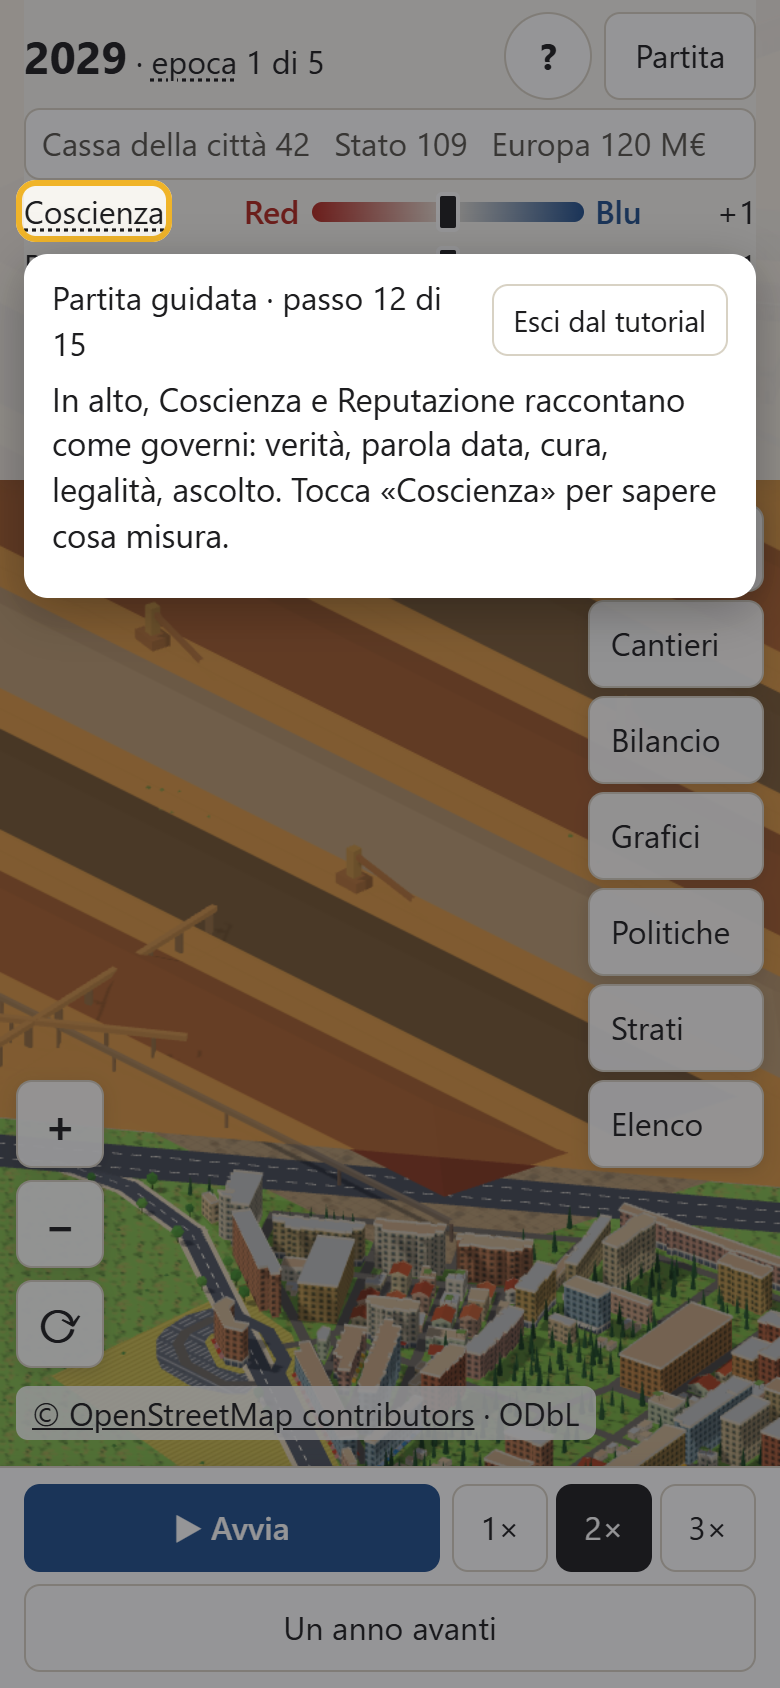
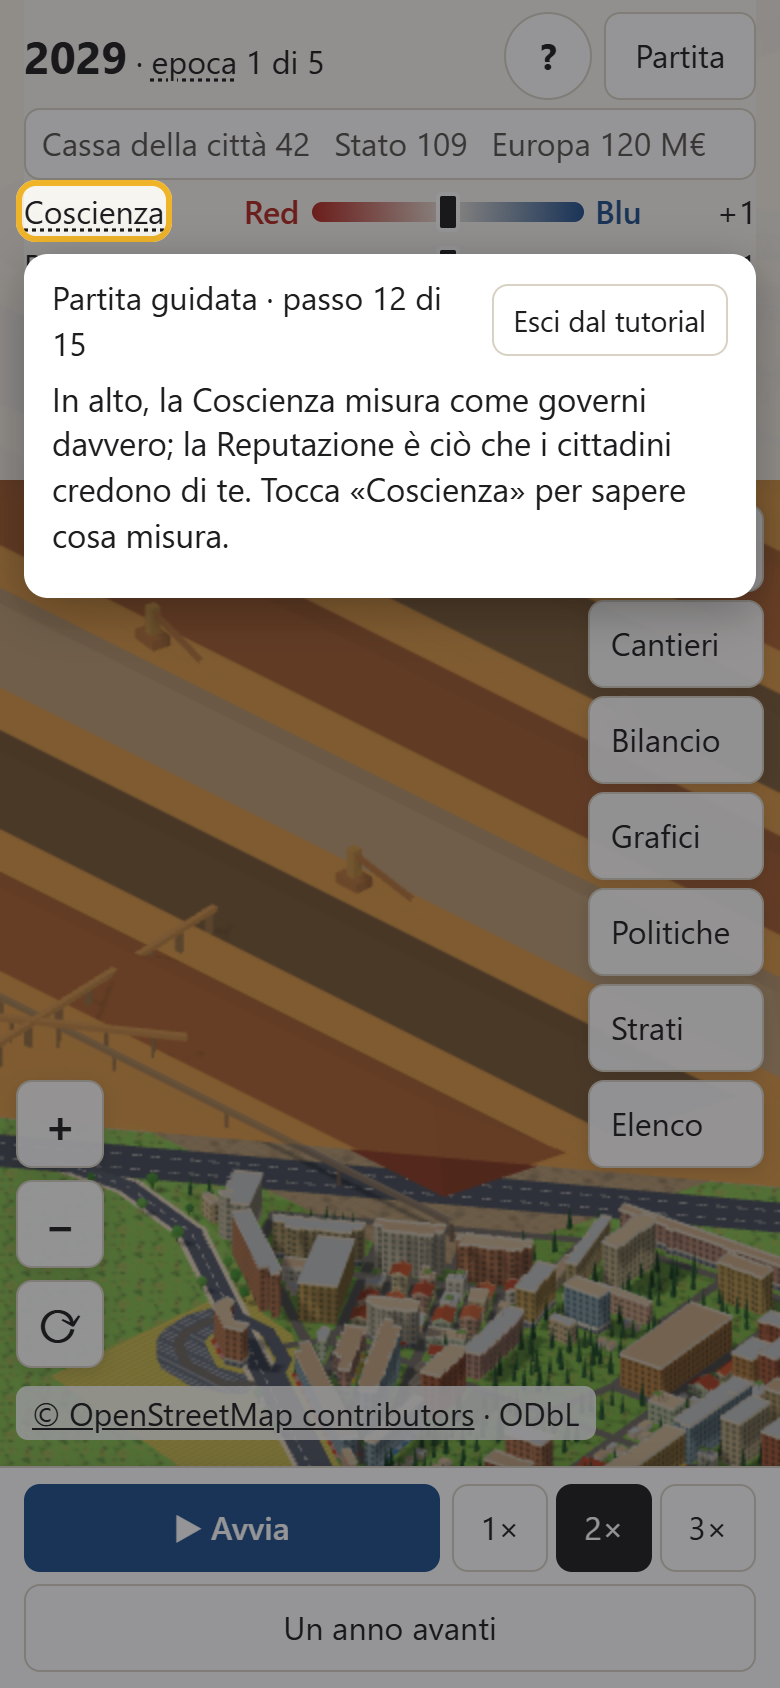
T16: passo 12 corretto da Michele, avanza solo chiudendo la spiegazione con «Ok»
Testo nuovo del passo 12; attesa «spiegazione-letta» al posto di «vede»; con la
spiegazione aperta l'evidenza passa su «Ok». Prova unitaria e prova nel browser
(la spiegazione non resta aperta ai passi dopo). Schermate 12, 12b, 13 e 14 rifatte.

Changed region(s): [[0.0615, 0.2156, 0.9231, 0.3081]]

diff --git a/apps/game/src/tutorial.tsx b/apps/game/src/tutorial.tsx
@@ -14,6 +14,7 @@ import type { GameState } from '@taranto2127/sim';
 import { useCallback, useEffect, useLayoutEffect, useRef, useState } from 'react';
 import { createPortal } from 'react-dom';
 import { content } from './engine.js';
+import { useTipAperto } from './guide.js';
 
 export const tutorial = content.tutorial;
 type Passo = (typeof tutorial.passi)[number];
@@ -69,6 +70,10 @@ export interface Contesto {
   layer: string | null;
   selected: { kind: 'district' | 'lot'; id: string } | null;
   paperOpen: boolean;
+  /** Il termine di cui è aperta la spiegazione, o null (lo aggiunge il tutorial stesso). */
+  tip?: string | null;
+  /** I termini di cui, durante questo passo, si è aperta la spiegazione. */
+  tipVisti?: ReadonlySet<string>;
 }
 
 /** Il comando con questo data-testid, se c'è nella pagina. */
@@ -97,8 +102,9 @@ export function fatto(passo: Passo, c: Contesto): boolean {
       return c.state.openDilemmaId !== null || c.state.history.some((h) => h.action.kind === 'answer-dilemma');
     case 'dilemma-risposto':
       return c.state.history.some((h) => h.action.kind === 'answer-dilemma');
-    case 'vede':
-      return trova(a.testid) !== null;
+    case 'spiegazione-letta':
+      // Aperta e poi chiusa con «Ok»: così ai passi dopo la spiegazione non resta sullo schermo.
+      return (c.tipVisti?.has(a.termine) ?? false) && (c.tip ?? null) === null;
     case 'fine':
       return false;
   }
@@ -175,8 +181,13 @@ export function Tutorial({ indice, contesto, onAvanti, onEsci, onFine }: { indic
   const [pos, setPos] = useState<{ top: number; maxHeight: number } | null>(null);
   /** Posto per il fumetto dentro una finestra (il dilemma): lì il fumetto scorre con il contenuto e non copre nulla. */
   const [spazio, setSpazio] = useState<HTMLElement | null>(null);
-  const contestoRef = useRef(contesto);
-  contestoRef.current = contesto;
+  const tip = useTipAperto();
+  // Le spiegazioni aperte durante questo passo (si ricomincia a ogni passo).
+  const visti = useRef<{ indice: number; termini: Set<string> }>({ indice, termini: new Set() });
+  if (visti.current.indice !== indice) visti.current = { indice, termini: new Set() };
+  if (tip !== null) visti.current.termini.add(tip);
+  const contestoRef = useRef<Contesto>(contesto);
+  contestoRef.current = { ...contesto, tip, tipVisti: visti.current.termini };
   const fuoco = useRef<HTMLElement | null>(null);
 
   // Il passo va avanti quando l'azione è fatta: si controlla a ogni cambio e, per ciò che sta solo nella pagina, ogni 300 ms.
@@ -184,7 +195,7 @@ export function Tutorial({ indice, contesto, onAvanti, onEsci, onFine }: { indic
   const controlla = useCallback(() => {
     if (fatto(passo, contestoRef.current)) onAvanti(indice);
   }, [passo, indice, onAvanti]);
-  useEffect(controlla, [contesto, controlla]);
+  useEffect(controlla, [contesto, tip, controlla]);
 
   // Dove sta il comando evidenziato, e dove mettere il fumetto perché non lo copra.
   const misura = useCallback(() => {
@@ -245,6 +256,11 @@ export function Tutorial({ indice, contesto, onAvanti, onEsci, onFine }: { indic
         </p>
       )}
       <p className="tutorial-testo">{passo.testo}</p>
+      {passo.attesa.tipo === 'spiegazione-letta' && rect?.testid === 'spiegazione-chiudi' && (
+        <p className="tutorial-testo" data-testid="tutorial-poi">
+          {passo.attesa.poi}
+        </p>
+      )}
       {ultimo && (
         <div className="buttons">
           <button type="button" className="primary" onClick={onFine} data-testid="tutorial-fine">

diff --git a/apps/game/scripts/verifica.ts b/apps/game/scripts/verifica.ts
@@ -1440,10 +1440,22 @@ async function tutorialDaCopione(browser: Browser, width: number, mappa: '3d' | 
     }
     if (!visti.includes(p.id)) {
       visti.push(p.id);
+      // Dopo il passo «coscienza» la sua spiegazione è chiusa: non resta sopra i comandi dei passi dopo.
+      if (visti.includes('coscienza') && p.id !== 'coscienza' && (await visible(page, 'spiegazione'))) fail(`${dove}, passo «${p.id}»: la spiegazione della Coscienza è rimasta aperta`);
       await controllaPasso(page, `${dove}, passo «${p.id}»`, p.bersaglio);
       if (width === 390 && mappa === '3d') {
         await page.waitForTimeout(500);
-        await page.screenshot({ path: join(shotsDir, `t16-passo-${String(visti.length).padStart(2, '0')}-${p.id}-390.png`) });
+        await page.screenshot({ path: join(shotsDir, `t16-passo-${String(visti.filter((x) => x !== 'coscienza-ok').length).padStart(2, '0')}-${p.id}-390.png`) });
+      }
+    }
+    else if (p.id === 'coscienza' && p.bersaglio === 'spiegazione-chiudi' && !visti.includes('coscienza-ok')) {
+      // Spiegazione aperta: ora si evidenzia «Ok» e il fumetto dice di chiuderla.
+      visti.push('coscienza-ok');
+      await controllaPasso(page, `${dove}, passo «coscienza» con la spiegazione aperta`, p.bersaglio);
+      if (!(await visible(page, 'tutorial-poi'))) fail(`${dove}, passo «coscienza»: con la spiegazione aperta il fumetto non dice di toccare «Ok»`);
+      if (width === 390 && mappa === '3d') {
+        await page.waitForTimeout(500);
+        await page.screenshot({ path: join(shotsDir, 't16-passo-12b-coscienza-ok-390.png') });
       }
     }
     if (process.env['T16LOG'] === '1') console.log(`LOG ${width} ${mappa} passo ${p.id} bersaglio ${p.bersaglio}`);
@@ -1464,8 +1476,10 @@ async function tutorialDaCopione(browser: Browser, width: number, mappa: '3d' | 
   // Ogni passo dei dati si vede; con la mappa schematica lo strato è sempre acceso, quindi «strato» si salta da solo.
   const attesi = loadContent().tutorial.passi.map((x) => x.id).filter((id) => !(mappa === 'schematica' && id === 'strato'));
   const mancanti = attesi.filter((id) => !visti.includes(id));
-  if (mancanti.length > 0 || visti.join() !== attesi.join()) fail(`${dove}: passi non visti o fuori ordine (mancano ${mancanti.join(', ') || 'nessuno'}; visti ${visti.join(', ')})`);
-  misura(`${dove}: tutorial completato, ${visti.length} passi (${visti.join(' → ')}), ${azioni} azioni, partita al ${anno}`);
+  if (!visti.includes('coscienza-ok')) fail(`${dove}: al passo «coscienza» la spiegazione aperta non porta l'evidenza su «Ok»`);
+  const ordine = visti.filter((id) => id !== 'coscienza-ok');
+  if (mancanti.length > 0 || ordine.join() !== attesi.join()) fail(`${dove}: passi non visti o fuori ordine (mancano ${mancanti.join(', ') || 'nessuno'}; visti ${visti.join(', ')})`);
+  misura(`${dove}: tutorial completato, ${ordine.length} passi (${ordine.join(' → ')}; a «coscienza» l'evidenza passa su «Ok»), ${azioni} azioni, partita al ${anno}`);
   await close();
 }
 

diff --git a/apps/game/src/tutorial.test.ts b/apps/game/src/tutorial.test.ts
@@ -101,7 +101,7 @@ describe('passi della partita guidata', () => {
     }
     for (const passo of tutorial.passi) {
       for (const id of passo.evidenzia) expect(ammessi.has(id), `${passo.id}: ${id}`).toBe(true);
-      if (passo.attesa.tipo === 'vede') expect(letterali.has(passo.attesa.testid), passo.id).toBe(true);
+      if (passo.attesa.tipo === 'spiegazione-letta') expect(Object.keys(content.guide.glossary), passo.id).toContain(passo.attesa.termine);
     }
   });
 
@@ -121,6 +121,12 @@ describe('passi della partita guidata', () => {
     expect(fatto(p('cantiere'), { ...inizio, state: avviato })).toBe(true);
     expect(fatto(p('cronaca'), { ...inizio, paperOpen: true })).toBe(true);
     expect(fatto(p('fine'), { ...inizio, panel: 'strati', paperOpen: true })).toBe(false);
+    // La spiegazione della Coscienza: il passo va avanti solo quando è stata aperta e poi chiusa con «Ok».
+    const visti = new Set(['coscienza']);
+    expect(fatto(p('coscienza'), { ...inizio, tip: 'coscienza', tipVisti: visti }), 'spiegazione ancora aperta').toBe(false);
+    expect(fatto(p('coscienza'), { ...inizio, tip: null, tipVisti: new Set() }), 'mai aperta').toBe(false);
+    expect(fatto(p('coscienza'), { ...inizio, tip: null, tipVisti: new Set(['reputazione']) }), "aperta un'altra spiegazione").toBe(false);
+    expect(fatto(p('coscienza'), { ...inizio, tip: null, tipVisti: visti }), 'aperta e chiusa').toBe(true);
   });
 
   it('l\'ultimo passo finisce solo con «Fine», e la partita guidata copre i primi cinque anni', () => {

diff --git a/apps/game/src/guide.tsx b/apps/game/src/guide.tsx
@@ -14,6 +14,9 @@ export const fill = (text: string, values: Record<string, string | number>): str
 // ---------- Termini spiegati al tocco ----------
 
 const TipContext = createContext<(id: string) => void>(() => {});
+/** Il termine di cui è aperta la spiegazione (la partita guidata lo guarda), o null. */
+const TipApertoContext = createContext<string | null>(null);
+export const useTipAperto = (): string | null => useContext(TipApertoContext);
 
 /** Un termine tecnico: toccandolo, la spiegazione compare in basso. */
 export function Term({ id, children }: { id: string; children?: ReactNode }) {
@@ -42,7 +45,7 @@ export function TipProvider({ children }: { children: ReactNode }) {
   const entry = tip === null ? undefined : guide.glossary[tip];
   return (
     <TipContext.Provider value={setTip}>
-      {children}
+      <TipApertoContext.Provider value={entry === undefined ? null : tip}>{children}</TipApertoContext.Provider>
       {entry !== undefined && (
         <div className="tip" role="dialog" aria-label={entry.termine} data-testid="spiegazione">
           <div>

diff --git a/packages/content/src/load.ts b/packages/content/src/load.ts
@@ -243,7 +243,8 @@ export interface GuideTexts {
 export type AttesaTutorial =
   | { tipo: 'pannello'; pannello: string }
   | { tipo: 'anno'; anno: number }
-  | { tipo: 'vede'; testid: string }
+  /** La spiegazione del termine si è aperta ed è stata chiusa con «Ok»; `poi` si legge mentre è aperta. */
+  | { tipo: 'spiegazione-letta'; termine: string; poi: string }
   | { tipo: 'strato' | 'finestra-chiusa' | 'lotto-aperto' | 'cantiere-avviato' | 'cronaca' | 'dilemma-aperto' | 'dilemma-risposto' | 'fine' };
 
 /** Partita guidata (T16): seme, testi della scelta all'avvio, passi. Solo per l'interfaccia. */

diff --git a/docs/GRAFICA.md b/docs/GRAFICA.md
@@ -57,6 +57,10 @@ porto, della Città Vecchia e del Borgo.
   a ogni cambio dello stato e ogni 300 ms per ciò che sta solo nella pagina; mai a tempo.
   L'avanzamento porta con sé il passo da cui parte, così due controlli dello stesso passo non
   ne fanno saltare uno.
+- **Spiegazione della Coscienza** (passo 12, correzione di Michele): il passo va avanti solo
+  quando la spiegazione aperta toccando «Coscienza» viene chiusa con «Ok», così ai passi dopo
+  non resta sopra i comandi. Mentre è aperta, l'evidenza passa su «Ok» e il fumetto aggiunge
+  «Quando hai letto, tocca «Ok».» (`tutorial-poi`).
 - **Facoltativa:** «Esci dal tutorial» in ogni passo; da «?» si riprende dal passo in cui si
   era, anche dopo una ricarica (il punto è salvato nel browser, `taranto2127:tutorial`). Alla
   fine del quinto anno «Fine» chiude la guida e la partita continua.
@@ -66,15 +70,16 @@ porto, della Città Vecchia e del Borgo.
   il passo «strato» si salta da solo).
 - **Identificativi nuovi:** `scelta-partita`, `scelta-guidata`, `scelta-libera`, `tutorial`
   (con `data-passo` e `data-bersaglio`), `tutorial-evidenza`, `tutorial-esci`, `tutorial-fine`,
-  `tutorial-prima-chiudi`, `aiuto-tutorial`; nella finestra del lotto `strade-lotto` e
+  `tutorial-prima-chiudi`, `tutorial-poi`, `aiuto-tutorial`; nella finestra del lotto `strade-lotto` e
   `strada-<strada>`.
 - **Prove nel browser** (`scripts/verifica.ts --t16`, anche nella verifica completa): una
   partita da copione completa il tutorial a 360, 390 e 1280 px, con la città 3D e con la mappa
   schematica; a ogni passo il comando è sullo schermo, in cima, non coperto dal fumetto, con
   il fuoco se può riceverlo (non se è disabilitato), senza animazioni; il fumetto si vede per
-  intero e non copre le opzioni di un dilemma; alla fine la partita è al 2032. Uscita e ripresa
+  intero e non copre le opzioni di un dilemma; dopo il passo «coscienza» la sua spiegazione è chiusa; alla fine la partita è al 2032. Uscita e ripresa
   da «?», anche dopo una ricarica. Schermate di ogni passo a 390 px:
-  `docs/schermate/t16-passo-NN-<passo>-390.png`, e la scelta all'avvio `t16-scelta-390.png`.
+  `docs/schermate/t16-passo-NN-<passo>-390.png`, la spiegazione aperta al passo 12 `t16-passo-12b-coscienza-ok-390.png`, e la scelta all'avvio
+  `t16-scelta-390.png`.
 
 ## Tutta la mappa sul telefono (T12e)
 

diff --git a/docs/CONTENUTI.md b/docs/CONTENUTI.md
@@ -78,7 +78,7 @@ azioni al posto del giocatore (regola 1).
   | `anno` | la partita è arrivata alla fine dell'anno indicato (numero annotato) |
   | `cronaca` | la Cronaca è aperta |
   | `dilemma-aperto`, `dilemma-risposto` | un dilemma è arrivato, oppure ha avuto risposta |
-  | `vede` | il comando indicato è sullo schermo (per esempio una spiegazione) |
+  | `spiegazione-letta` | la spiegazione del termine indicato si è aperta ed è stata chiusa con «Ok»; mentre è aperta il fumetto aggiunge la frase `poi` |
   | `fine` | il giocatore tocca «Fine» |
 
 - `primaChiudi` è la frase aggiunta quando il passo deve evidenziare un pulsante di chiusura
